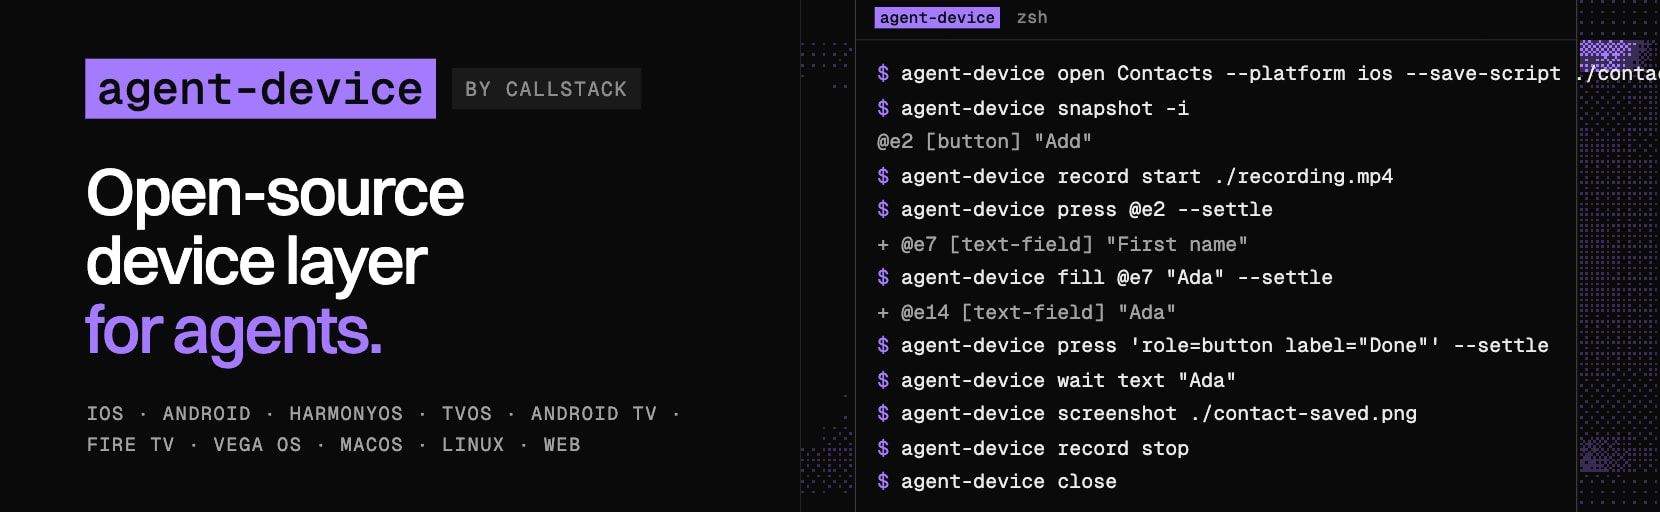
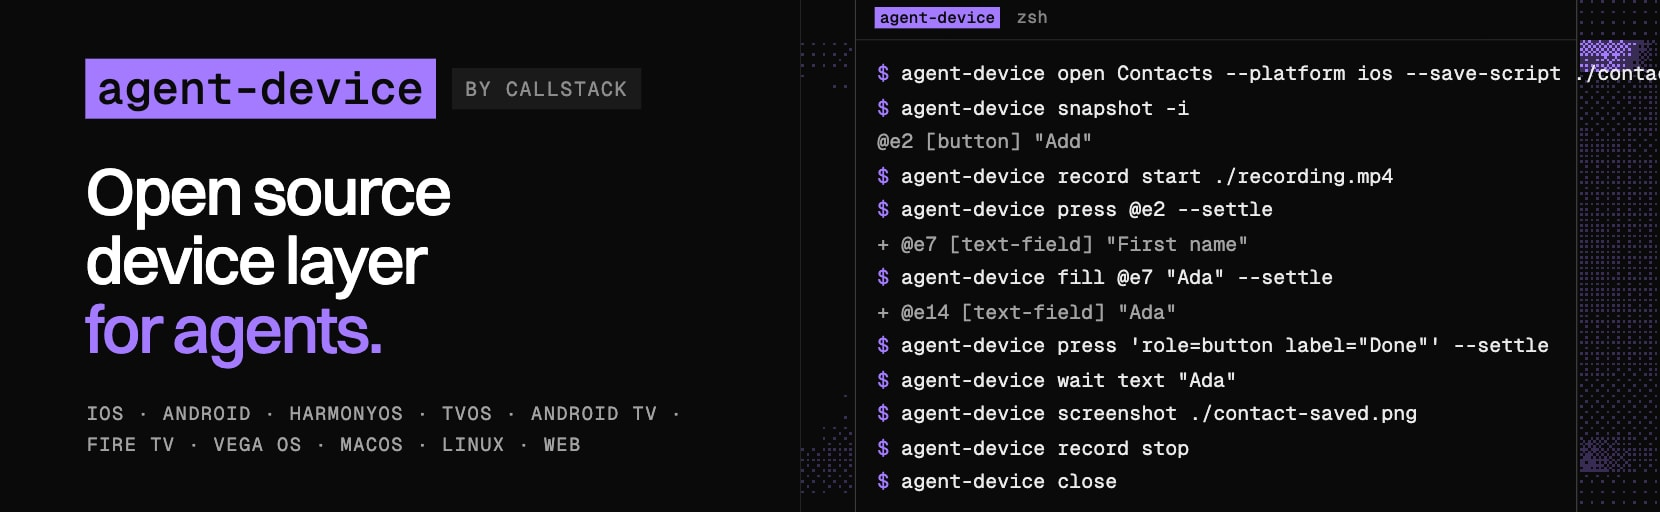
docs: "open source device layer", and the package descriptions follow (#4034)
The tagline drops the hyphen in the site title, headline, meta
description, social card and banner, llms.txt, the README and the docs
introduction. package.json (npm) and server.json (MCP registry) still
described agent-device as "mobile app automation"; both now use the
same line.

Changed region(s): [[0.1536, 0.3438, 0.2765, 0.4375]]

diff --git a/website/src/site/content.ts b/website/src/site/content.ts
@@ -19,17 +19,17 @@ export const site = {
    * What it is, in a few words. The home page title is "Name: subtitle" (src/site/meta.ts),
    * 60 characters at most in all.
    */
-  subtitle: 'Open-source device layer for agents',
+  subtitle: 'Open source device layer for agents',
   /** The motto, in two beats. Used by the hero, the social card and the banner. */
-  headline: ['Open-source device layer', 'for agents.'],
+  headline: ['Open source device layer', 'for agents.'],
   /** The hero lede: one or two sentences, naming who it is for. */
   lede: 'Let coding agents control mobile, web, TV and desktop apps on devices and simulators, local or in the cloud.',
   /** The meta description: 160 characters at most. */
   description:
-    'Open-source device layer for coding agents: control mobile, web, TV and desktop apps on devices and simulators, local or in the cloud, via CLI, MCP or Node.js.',
+    'Open source device layer for coding agents: control mobile, web, TV and desktop apps on devices and simulators, local or in the cloud, via CLI, MCP or Node.js.',
   install: 'npm i -g agent-device',
   /** Alt text for the social card (public/og-image.jpg): the lockup, the motto, the picture. */
-  ogAlt: 'agent-device by Callstack. Open-source device layer for agents.',
+  ogAlt: 'agent-device by Callstack. Open source device layer for agents.',
   /** Who holds the copyright in the footer: "© YEAR AGENT-DEVICE BY CALLSTACK". */
   owner: 'Callstack',
   callstack: 'https://callstack.com/?utm_source=agent-device&utm_medium=referral',

diff --git a/website/src/site/llms.ts b/website/src/site/llms.ts
@@ -3,7 +3,7 @@
 // these details, the generated documentation sets and the optional links.
 
 export const llmsDescription =
-  'Open-source device layer for AI agents: it lets coding agents control mobile, web, TV, and desktop apps on devices and simulators, locally or in the cloud. It gives agents structured UI state, semantic interaction, and runtime evidence through a CLI, MCP server, and typed Node.js API.';
+  'Open source device layer for AI agents: it lets coding agents control mobile, web, TV, and desktop apps on devices and simulators, locally or in the cloud. It gives agents structured UI state, semantic interaction, and runtime evidence through a CLI, MCP server, and typed Node.js API.';
 
 export const llmsDetails = `agent-device is the agent's hands, eyes, and evidence collector. The calling agent remains responsible for understanding the task, choosing actions, and judging whether the observed result is correct.
 

diff --git a/README.md b/README.md
@@ -1,6 +1,6 @@
 <a href="https://www.callstack.com/open-source?utm_campaign=generic&utm_source=github&utm_medium=referral&utm_content=agent-device" align="center">
   <picture>
-    <img alt="agent-device: open-source device layer for agents" src="website/docs/public/agent-device-banner.jpg">
+    <img alt="agent-device: open source device layer for agents" src="website/docs/public/agent-device-banner.jpg">
   </picture>
 </a>
 
@@ -13,7 +13,7 @@
 [![License: MIT](https://img.shields.io/badge/license-MIT-black.svg)](LICENSE)
 [![Glama MCP server](https://glama.ai/mcp/servers/callstack/agent-device/badges/score.svg)](https://glama.ai/mcp/servers/callstack/agent-device)
 
-**Open-source device layer for AI coding agents.** Let coding agents control mobile, web, TV, and desktop apps on devices and simulators, locally or in the cloud, through a CLI, built-in MCP server, or typed Node.js API.
+**Open source device layer for AI coding agents.** Let coding agents control mobile, web, TV, and desktop apps on devices and simulators, locally or in the cloud, through a CLI, built-in MCP server, or typed Node.js API.
 
 <!-- Intro rule: category line, job pitch with the platform list, works-with/proof lines, nothing else. Per-platform transports, tool names, vendor lists, and support caveats belong in "How it works" and website/docs, never here. Every name in the proof lines must link to public evidence. -->
 

diff --git a/website/docs/docs/introduction.md b/website/docs/docs/introduction.md
@@ -3,7 +3,7 @@ title: Introduction
 description: Learn what agent-device is, where it fits in agentic mobile, TV, desktop, and web development, and how agents use it for app verification, debugging, profiling, QA, and replay.
 ---
 
-`agent-device` is an open-source device layer for coding agents: a CLI, MCP server, and Node.js API that let agents verify and QA apps, locally or in device clouds, on iOS, Android, HarmonyOS, tvOS, Android TV, Fire TV devices running Fire OS, Amazon Vega OS TV apps in the Vega Virtual Device, macOS (including Electron apps), Linux desktop targets, and a limited managed web browser. Which interactions, structured UI, evidence, performance, and replay features you get depends on what each target supports.
+`agent-device` is an open source device layer for coding agents: a CLI, MCP server, and Node.js API that let agents verify and QA apps, locally or in device clouds, on iOS, Android, HarmonyOS, tvOS, Android TV, Fire TV devices running Fire OS, Amazon Vega OS TV apps in the Vega Virtual Device, macOS (including Electron apps), Linux desktop targets, and a limited managed web browser. Which interactions, structured UI, evidence, performance, and replay features you get depends on what each target supports.
 
 Use it when an agent needs to inspect and operate a running app, not only reason about source code or screenshots.
 
